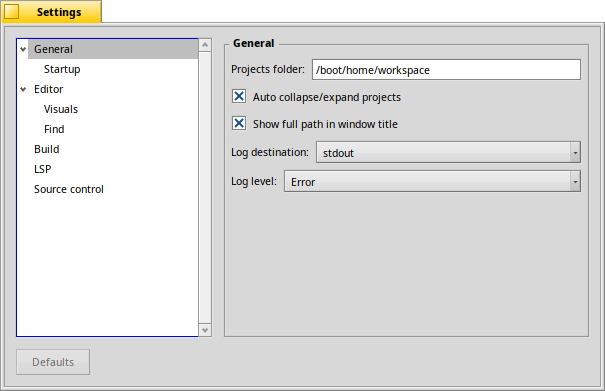
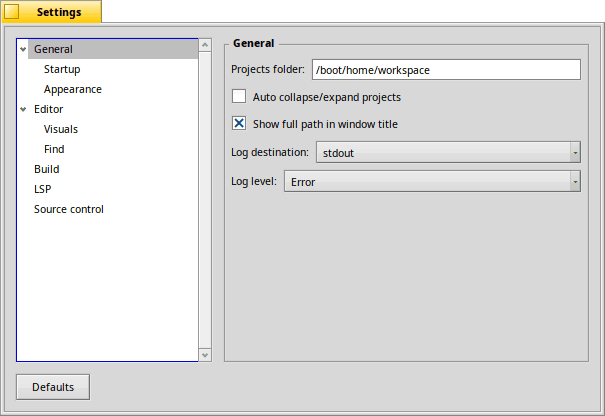
Update documentation
* Mention dropping folders in Projects pane.
* Add info on adding "setarch x86" to build commands in project
  settings.
* Mention status bar in Appearance menu and overview in the quick
  start ReadMe page.
* Rename "Output pane" to "Info pane", incl. screenshot file names.
* Add "Go to symbol" to Outline context menu.
* Add search panel in "Search results" tab of the Info pane.
* Add "Run" pop-up menu to "Console bar".
* Add "Appearance" section to Genio settings.
* Add "Build file path" in Project settings.
* Remove "Defaults" button in Project settings screenshots.
* Add "Set active" in Project menu.

Changed region(s): [[0.0, 0.0, 1.0, 0.5217], [0.0298, 0.8286, 0.357, 0.9821], [0.3868, 0.8593, 0.9818, 0.89]]

diff --git a/documentation/panes.html b/documentation/panes.html
@@ -31,18 +31,18 @@
 	<a href="#projects-pane">The Projects pane</a><br />
 	<a href="#projects-projects">┣━ Projects</a><br />
 	<a href="#projects-source-control">┗━ Source control</a><br />
-	<a href="#output-pane">The Output pane</a><br />
-	<a href="#output-problems">┣━ Problems</a><br />
-	<a href="#output-build-log">┣━ Build log</a><br />
-	<a href="#output-console-io">┣━ Console I/O</a><br />
-	<a href="#output-search-results">┗━ Search results</a><br />
+	<a href="#info-pane">The Info pane</a><br />
+	<a href="#info-problems">┣━ Problems</a><br />
+	<a href="#info-build-log">┣━ Build log</a><br />
+	<a href="#info-console-io">┣━ Console I/O</a><br />
+	<a href="#info-search-results">┗━ Search results</a><br />
 	<a href="#outline-pane">The Outline pane</a>
 </td></tr>
 </tbody></table>
 
 <h1>The Panes</h1>
 
-<p>Genio's main window contains three panes besides the toolbar and the editor view: The Projects pane on the left, the Outline pane on the right, and the Output pane at the bottom. They can be toggled on and off with the first three icons in the toolbar, or from the menu <span class="menu">Window|Appearance</span>.</p>
+<p>Genio's main window contains three panes besides the toolbar and the editor view: The Projects pane on the left, the Outline pane on the right, and the Info pane at the bottom. They can be toggled on and off with the first three icons in the toolbar, or from the menu <span class="menu">Window|Appearance</span>.</p>
 
 
 <h2>
@@ -67,6 +67,8 @@ Commands like <span class="menu">Project|Build project</span> or a search in the
 <p>A right-click on files or folders inside the project allows you to rename, delete or open a file with its preferred application, etc.</p>
 
 <p>Double-clicking a file opens it in the editor view, if it's a text file. Filetypes unsupported by Genio get opened in their preferred application. For example, a Bookmark file opens in WebPositive and an icon in Icon-O-Matic.</p>
+
+<p>You can drop a folder from a Tracker window onto the pane to add it as another project.</p>
 <p style="clear:left"></p>
 
 
@@ -90,16 +92,16 @@ Commands like <span class="menu">Project|Build project</span> or a search in the
 
 <h2>
 <a href="#"><img src="./images/up.png" style="border:none;float:right" alt="index" /></a>
-<a id="output-pane" name="output-pane">The Output pane</a></h2>
+<a id="info-pane" name="info-pane">The Info pane</a></h2>
 
-<p>The Output pane consists of four tabs: <span class="menu">Problems</span>, the <span class="menu">Build log</span>, the <span class="menu">Console I/O</span> and <span class="menu">Search results</span>.</p>
+<p>The Info pane consists of four tabs: <span class="menu">Problems</span>, the <span class="menu">Build log</span>, the <span class="menu">Console I/O</span> and <span class="menu">Search results</span>.</p>
 
 
 <h3>
 <a href="#"><img src="./images/up.png" style="border:none;float:right" alt="index" /></a>
-<a id="output-problems" name="output-problems">Problems</a></h3>
+<a id="info-problems" name="info-problems">Problems</a></h3>
 
-<p style="text-align:center"><img src="./images/panes-output_problems.png" style="border:none" alt="Problems" /></p>
+<p style="text-align:center"><img src="./images/panes-info_problems.png" style="border:none" alt="Problems" /></p>
 
 <p>Clang is continuously analyzing the current file in the editor view and reports any problems it thinks it has found. Sometimes those are false positives and can be ignored. Often it's very helpful, however, to spot typos or missing commas etc.<br />
 A right-click on a row offers to fix the issue, if possible.</p>
@@ -107,9 +109,9 @@ A right-click on a row offers to fix the issue, if possible.</p>
 
 <h3>
 <a href="#"><img src="./images/up.png" style="border:none;float:right" alt="index" /></a>
-<a id="output-build-log" name="output-build-log">Build log</a></h3>
+<a id="info-build-log" name="info-build-log">Build log</a></h3>
 
-<p style="text-align:center"><img src="./images/panes-output_build_log.png" style="border:none" alt="Build log" /></p>
+<p style="text-align:center"><img src="./images/panes-info_build_log.png" style="border:none" alt="Build log" /></p>
 
 <p>When you're building your project, the "Build log" tab pops up, showing the build process.<br />
 Warnings and errors are printed in red, showing in which file, on what line and column the error was encountered. Click on it, and you're transported right to it.</p>
@@ -120,9 +122,9 @@ The checkboxes above them de/activate <span class="menu">stdout</span> and <span
 
 <h3>
 <a href="#"><img src="./images/up.png" style="border:none;float:right" alt="index" /></a>
-<a id="output-console-io" name="output-console-io">Console I/O</a></h3>
+<a id="info-console-io" name="info-console-io">Console I/O</a></h3>
 
-<p style="text-align:center"><img src="./images/panes-output_console_io.png" style="border:none" alt="Console I/O" /></p>
+<p style="text-align:center"><img src="./images/panes-info_console_io.png" style="border:none" alt="Console I/O" /></p>
 
 <p>If you execute a command from the <span class="menu">Git</span> menu, like <span class="cli">git status</span>, or choose to <span class="menu">Run console program</span> or <span class="menu">Run target</span> from the <a href="toolbar.html">Toolbar</a>, its output will appear in the "Console I/O" tab.</p>
 
@@ -131,11 +133,13 @@ The checkboxes above them de/activate <span class="menu">stdout</span> and <span
 
 <h3>
 <a href="#"><img src="./images/up.png" style="border:none;float:right" alt="index" /></a>
-<a id="output-search-results" name="output-search-results">Search results</a></h3>
+<a id="info-search-results" name="info-search-results">Search results</a></h3>
 
-<p style="text-align:center"><img src="./images/panes-output_search_results.png" style="border:none" alt="Search results" /></p>
+<p style="text-align:center"><img src="./images/panes-info_search_results.png" style="border:none" alt="Search results" /></p>
 
 <p>If you click the icon <span class="menu">Find in project</span> in the <a href="toolbar.html">Find bar</a>, this tab will show all the hits from all files of the currently active project. Double-click to jump to the search result.</p>
+
+<p>To the right is a search panel that is similar to the 'Find bar'. It is in fact synced with the 'Find bar' whenever you do a <span class="menu">Find in project</span> there. The additional <span class="menu">Project</span> menu let's you select another but the currently active project as a search target.</p>
 
 
 <h2>
@@ -148,7 +152,7 @@ The checkboxes above them de/activate <span class="menu">stdout</span> and <span
 
 <p>Double-clicking an entry jumps to it in the file currently open in the editor.</p>
 
-<p>Right-clicking an entry, you can choose <span class="menu">Rename symbol…</span> from the context menu to change the name of that symbol in the whole project.</p>
+<p>Right-clicking an entry opens a context menu where <span class="menu">Go to symbol</span> does the same as a double-click and <span class="menu">Rename symbol…</span> changes the name of that symbol in the whole project.</p>
 <p>For this to work correctly in all situations, you need to create a compile database file (<tt>compile_commands.json</tt>). See <a href="./settings-lsp.html">Configuring Clangd / LSP</a> on how that can be done very easily.</p>
 
 <p style="clear:left"></p>

diff --git a/documentation/settings-genio.html b/documentation/settings-genio.html
@@ -30,6 +30,7 @@
 <tr class="index"><td>
 	<a href="#general">General</a><br />
 	<a href="#general_startup"> ┗━ Startup</a><br />
+	<a href="#general_appearance"> ┗━ Appearance</a><br />
 	<a href="#editor">Editor</a><br />
 	<a href="#editor_visual">┣━ Visual</a><br />
 	<a href="#editor_find"> ┗━ Find</a><br />
@@ -42,6 +43,8 @@
 <h1><a id="genio" name="genio">The Genio Settings</a></h1>
 
 <p>From the list on the left, you choose the different settings categories.</p>
+
+<p><span class="button">Defaults</span> will reset all settings to their defaults.</p>
 
 <h2>
 <a href="#"><img src="./images/up.png" style="border:none;float:right" alt="index" /></a>
@@ -73,7 +76,16 @@
 
 <p style="text-align:center"><img src="./images/genio-settings-general_startup.png" style="border:none;padding:15px" alt="Genio settings: General / Startup" /></p>
 
-<p>These settings determine how Genio will behave on startup: if the projects and files that were open when you last quit Genio are reloaded, and which panes etc. are to be shown by default when Genio launches.</p>
+<p>These settings determine how Genio will behave on startup. You decide if the projects and files that were open when you last quit Genio are reloaded when it launches.</p>
+
+
+<h2>
+<a href="#"><img src="./images/up.png" style="border:none;float:right" alt="index" /></a>
+<a id="general_appearance" name="general_appearance">General / Appearance</a></h2>
+
+<p style="text-align:center"><img src="./images/genio-settings-general_appearance.png" style="border:none;padding:15px" alt="Genio settings: General / Appearance" /></p>
+
+<p>These settings determine Genio's default look. Besides setting which panes and bars are shown by default when Genio launches, you can also opt to <span class="menu">Use smaller icons in toolbar</span> to save precious space.</p>
 
 
 <h2>

diff --git a/documentation/menus.html b/documentation/menus.html
@@ -116,6 +116,8 @@ In it is an item <span class="menu">Edit user templates…</span> that opens a f
 
 <p style="margin-top: 2.2em"><span class="menu">Open project…</span> and <span class="menu">Open remote project…</span> are described on the QuickStart page under <a href="ReadMe.html#local">Local project</a> and <a href="ReadMe.html#remote">Remote project</a>.</p>
 
+<p>Under <span class="menu">Set active</span> you find all currently open projects. Only one can be chosen and is then the target for actions like building, cleaning or finding a string in the project.</p>
+
 <p><span class="menu">Build project</span> and <span class="menu">Clean project</span> will build or clean the active project according to the set <span class="menu">Build mode</span>, either as "release" or "debug".</p>
 
 <p><span class="menu">Run target</span> will launch the built binary.</p>
@@ -146,7 +148,7 @@ In it is an item <span class="menu">Edit user templates…</span> that opens a f
 
 <img src="./images/menus-window.png" class="floatleft" style="margin-bottom: 4em" alt="Window menu" />
 
-<p style="margin-top: 2.2em">You can show/hide panes and toolbar under <span class="menu">Appearance</span>.</p>
+<p style="margin-top: 2.2em">You can show/hide panes and tool- and statusbar under <span class="menu">Appearance</span>.</p>
 
 <p>Genio's window can be made <span class="menu">Fullscreen</span> (<span class="key">ALT</span>&nbsp;<span class="key">ENTER</span>).</p>
 

diff --git a/documentation/settings-project.html b/documentation/settings-project.html
@@ -59,6 +59,8 @@
 <p>Here you chose to build either in <span class="menu">release</span> or <span class="menu">debug</span> mode when invoking <span class="menu">Project|Build project</span> (<span class="key">ALT</span>&nbsp;<span class="key">B</span>) or via the toolbar icon.<br />
 There's also the <span class="menu">Project|Build mode</span> menu to quickly switch between the two modes.</p>
 
+<p>You can set a <span class="menu">Build file path</span> if, for example, your Makefile isn't in the project's top folder but in a "source" subfolder.</p>
+
 <h3>
 <a href="#"><img src="./images/up.png" style="border:none;float:right" alt="index" /></a>
 <a id="project-build_release" name="project-build_release">Build / Release</a></h3>
@@ -84,6 +86,7 @@ There's also the <span class="menu">Project|Build mode</span> menu to quickly sw
 
 <p>If you haven't configured your build commands correctly, the corresponding icon in the toolbar will be inactive.</p>
 
+<div class="box-info">If you're on 32bit Haiku and need to compile with a modern compiler instead of the default <tt>gcc 2.95</tt>, you can prepend <tt>setarch x86</tt> to the build commands so they say for example: <tt>setarch x86 make -j$(nproc)</tt>.</div>
 
 <h3>
 <a href="#"><img src="./images/up.png" style="border:none;float:right" alt="index" /></a>

diff --git a/documentation/ReadMe.html b/documentation/ReadMe.html
@@ -37,7 +37,7 @@ If you have questions or issues that should be added to the documentation, pleas
 
 <h1>Quick start</h1>
 
-<p>For orientation, let's start with a quick overview of Genio's main window, with its <span class="menu">Projects</span> pane to the left (1), <span class="menu">Output</span> pane at the bottom (2), the <span class="menu">Outline</span> pane at the right (3), the <span class="menu">Editor</span> view in the middle (4), and <span class="menu">Menu and Toolbar</span> at the top (5).</p>
+<p>For orientation, let's start with a quick overview of Genio's main window, with its <span class="menu">Projects</span> pane to the left (1), <span class="menu">Output</span> pane at the bottom (2), the <span class="menu">Outline</span> pane at the right (3), the <span class="menu">Editor</span> view in the middle (4), <span class="menu">Menu and Toolbar</span> at the top (5), and a <span class="menu">Statusbar</span> at the bottom (6).</p>
 
 <p style="text-align:center"><img src="./images/main_window.png" style="border:none" alt="Genio's main window" /></p>
 

diff --git a/documentation/toolbar.html b/documentation/toolbar.html
@@ -201,7 +201,12 @@ Previous replace strings can be found in the <span class="menu">Replace</span> p
 <p style="text-align:center"><img src="./images/toolbar-console_bar.png" alt="Console bar" /></p>
 
 <p>The text field acts like a command prompt with the active project's top folder as working directory. You can execute any command and see the output in the <a href="panes.html#console-io">Console I/O</a> tab of the output pane.</p>
+
 <p>Hitting <span class="key">TAB</span> or <span class="key">ENTER</span> or click <span class="button">Run</span> to execute the entered command line.</p>
+
+<p><span class="key">ESC</span> closes the Console bar.</p>
+
+<p>Previous commands can be found in the <span class="menu">Run</span> pop-up menu.</p>
 
 <hr />
 <a href="panes.html" style="border:none;float:left">Back: Panes</a>
